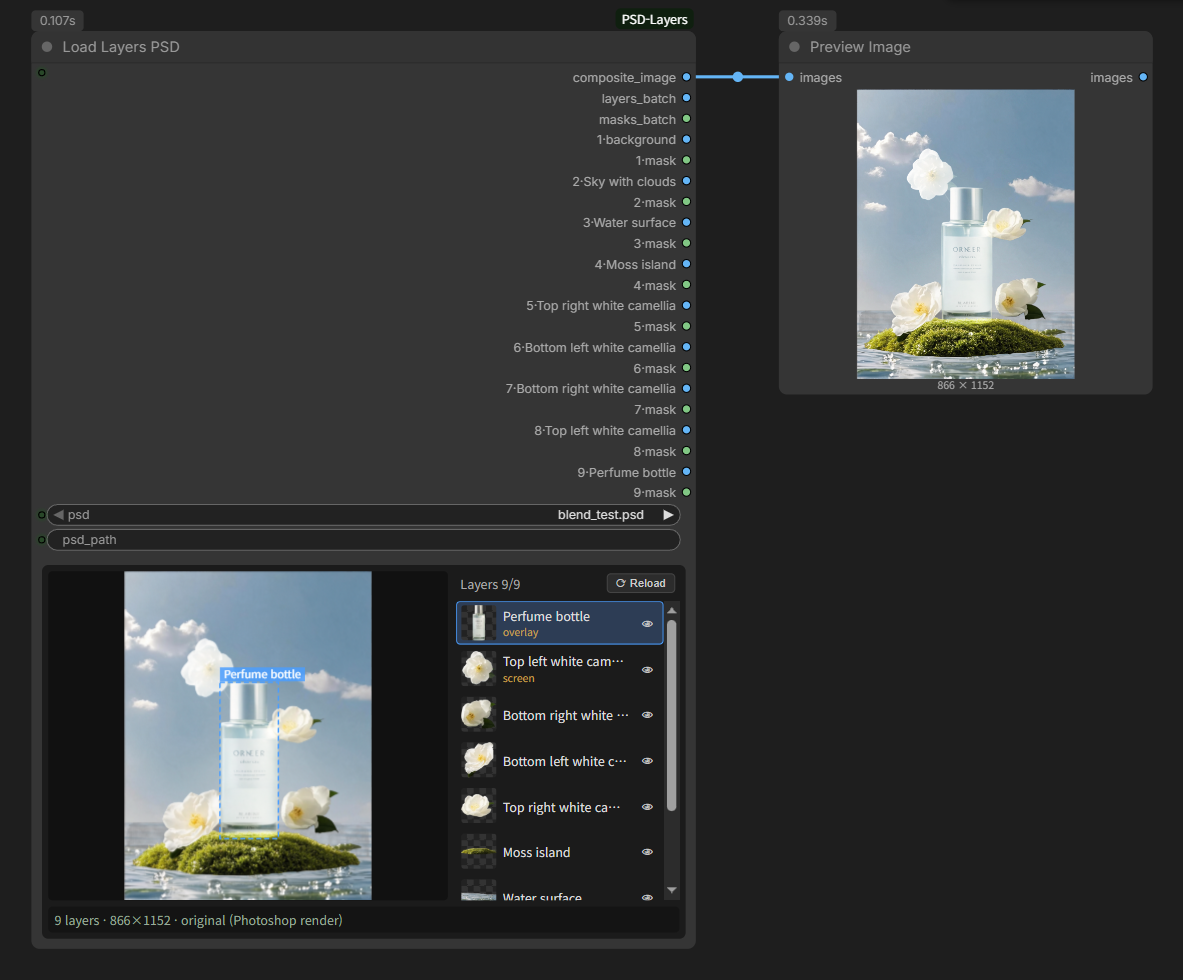
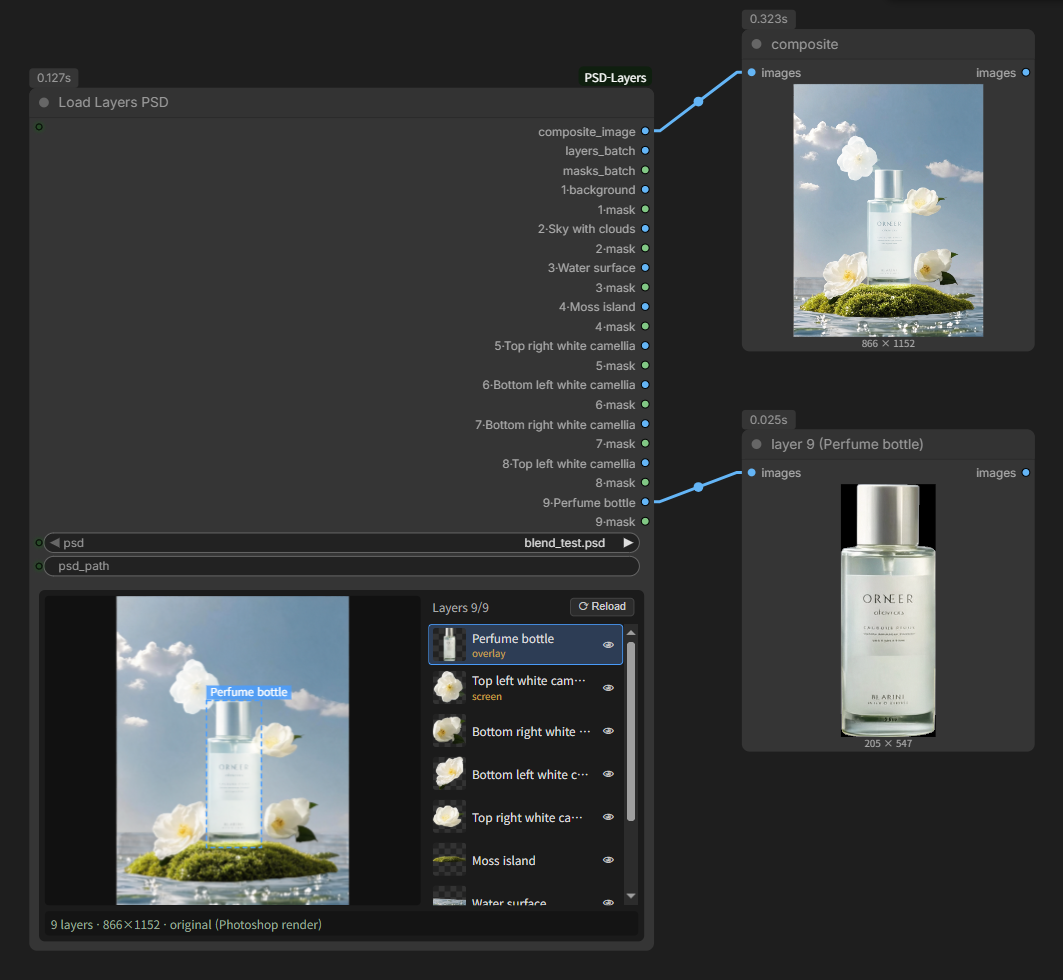
Load example: tap layer_9_image into its own PreviewImage
Shows per-layer output wiring alongside the composite; refreshed the
workflow screenshot (composite + tight-crop perfume bottle previews).

diff --git a/README.ko.md b/README.ko.md
@@ -105,7 +105,7 @@ pip install -r requirements.txt   # psd-tools[composite]>=1.18.0, pillow, numpy
 
 <img src="https://raw.githubusercontent.com/coeyes/ComfyUI-PSD-Layers/main/docs/workflow_save.png" alt="Seedream 분리 → PSD 워크플로우">
 
-**`load_psd_layers`** — PSD → composite / 레이어별 출력:
+**`load_psd_layers`** — PSD → composite + 개별 레이어(`layer_9_image`)를 따로 뽑아 미리보기:
 
 <img src="https://raw.githubusercontent.com/coeyes/ComfyUI-PSD-Layers/main/docs/workflow_load.png" alt="PSD 레이어 로드 워크플로우">
 

diff --git a/README.md b/README.md
@@ -112,7 +112,7 @@ template browser).
 
 <img src="https://raw.githubusercontent.com/coeyes/ComfyUI-PSD-Layers/main/docs/workflow_save.png" alt="Seedream separation to PSD workflow">
 
-**`load_psd_layers`** — PSD → composite / per-layer outputs:
+**`load_psd_layers`** — PSD → composite + tapping a single layer (`layer_9_image`) into its own preview:
 
 <img src="https://raw.githubusercontent.com/coeyes/ComfyUI-PSD-Layers/main/docs/workflow_load.png" alt="Load PSD layers workflow">
 
